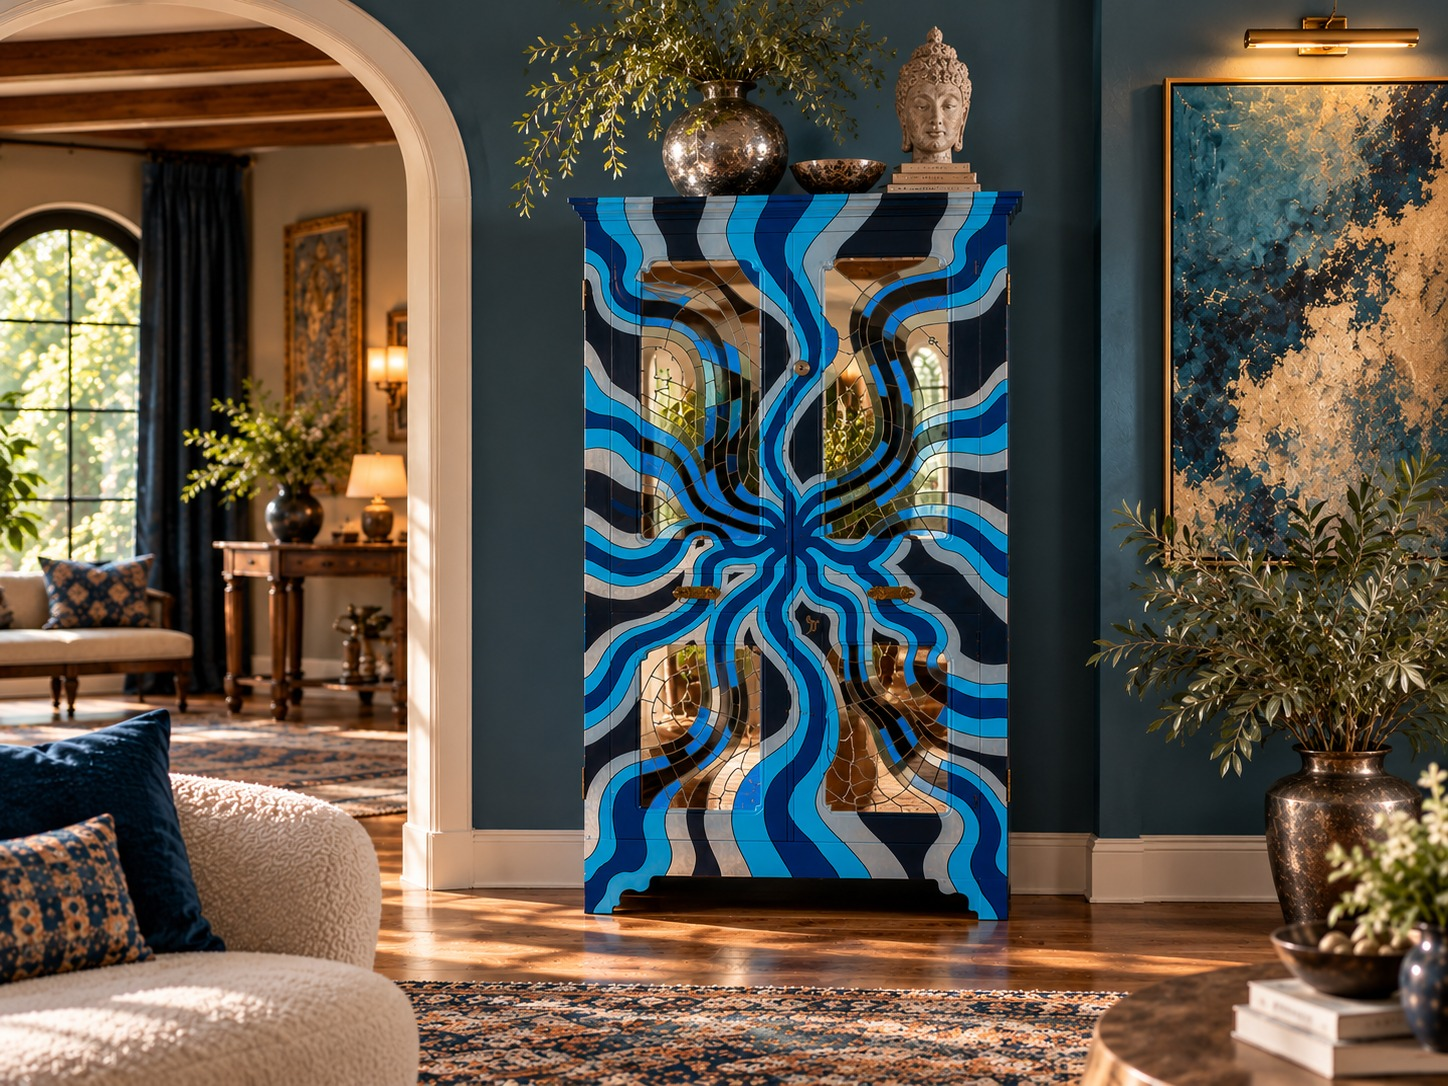
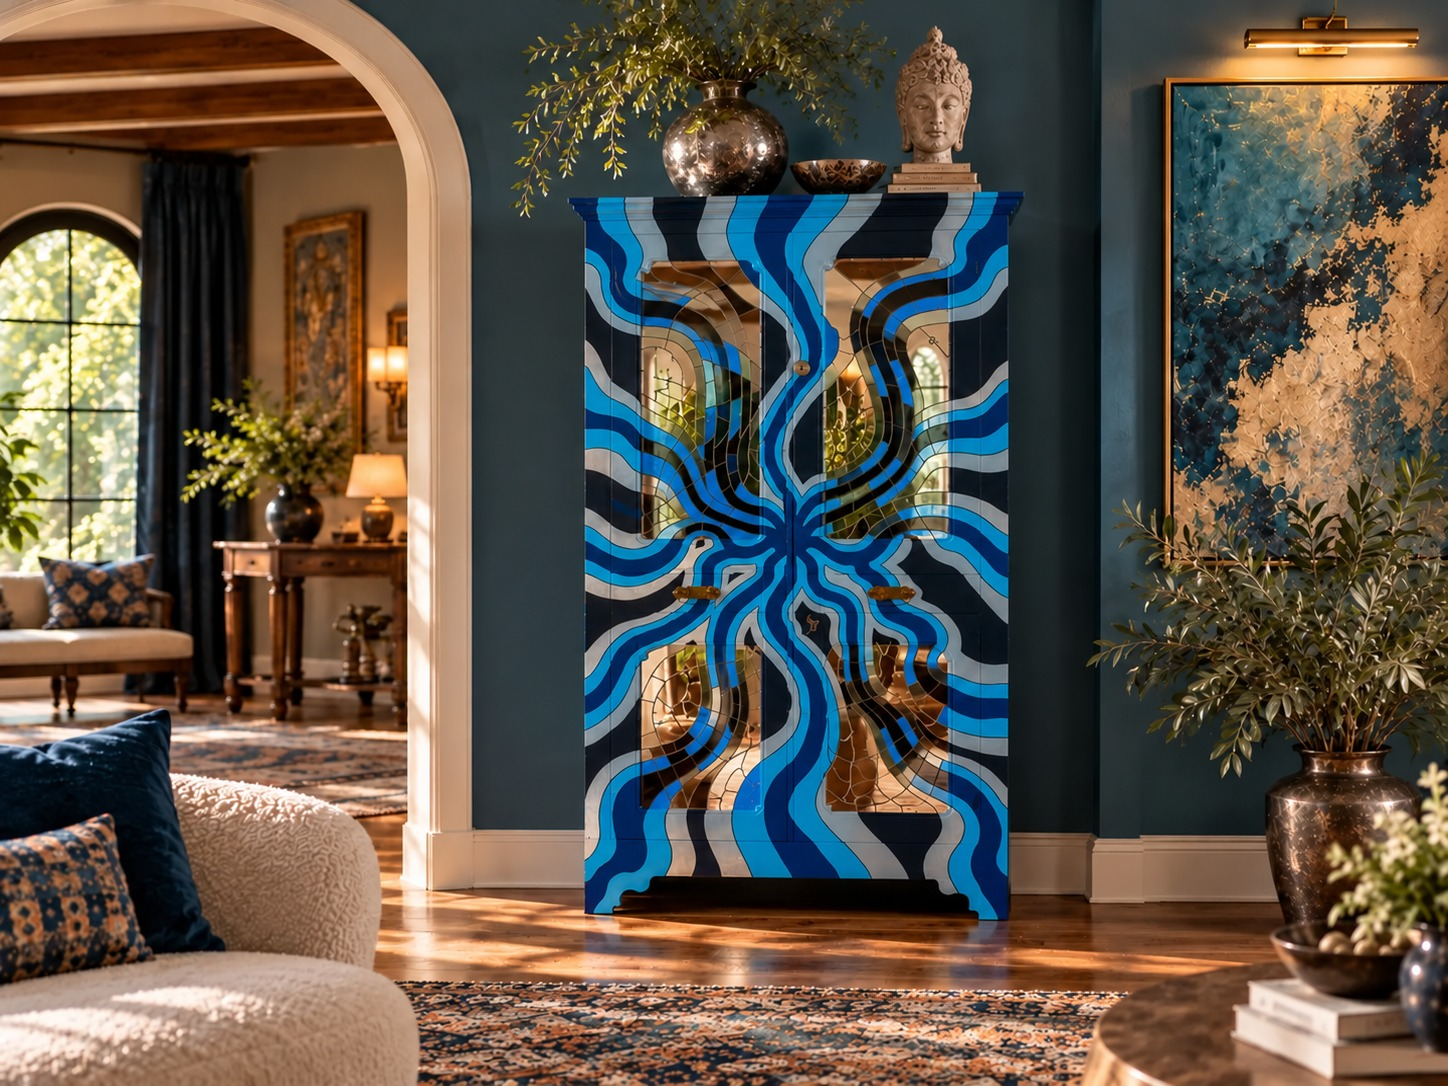
Expand portfolio with construction, interiors, and custom furniture work

diff --git a/content/portfolio.ts b/content/portfolio.ts
@@ -82,6 +82,178 @@ export const portfolio: PortfolioProject[] = [
     images: [{ src: "/images/livingroom3.jpg", alt: "Transformed living room with warm brown walls, white trim and fireplace, timber floors, and neutral seating", width: 1448, height: 1086 }],
     tags: ["Color composition", "Interior painting", "Photoshop visualization", "Architectural character"],
   },
+  {
+    id: "reclaimed-cedar-shed",
+    order: 60,
+    title: "A second life for well-found materials.",
+    category: "Standalone shed / Reclaimed construction",
+    description: [
+      "Jim’s first complete standalone shed brought a resourceful approach to 144 square feet of post-and-beam construction. Cedar cladding gives the exterior a warm, cohesive finish, while reclaimed materials throughout tell a story of looking closely at what others might overlook.",
+      "The 5-by-5 beams came from a farm outside Portland for very little cost. The sliding door and windows were rescued from a local apartment renovation, where they were destined for disposal. Finding a place for those elements became part of the design itself: a small building shaped by ingenuity, material character, and the pleasure of making something useful from what already exists.",
+    ],
+    images: [{ src: "/images/shed3.jpg", alt: "Cedar-clad standalone shed with exposed roof beams, large windows, and a sliding glass door opening onto a timber deck", width: 1448, height: 1086 }],
+    tags: ["Post-and-beam construction", "Reclaimed materials", "Cedar cladding", "Small-scale architecture"],
+  },
+  {
+    id: "basement-bathroom",
+    order: 70,
+    title: "An antique finds a new daily purpose.",
+    category: "Basement bathroom / Complete remodel",
+    description: [
+      "An antique dresser became the starting point for a bathroom with a distinctly personal character. Jim adapted the piece to receive a drop-in sink, bringing the warmth and detail of furniture into a room more often defined by standard fixtures.",
+      "One of his early remodels, the project extended well beyond the vanity. An unusual layout accommodated a double-width custom tiled shower, built-in shelving, and a large jetted tub, with a safe discreetly integrated behind a wall. Those features sit beyond this view, but reflect the same interest in making every part of a room work harder—and feel individual.",
+    ],
+    images: [{ src: "/images/basementbathroom3.jpg", alt: "Remodeled bathroom with an antique wood dresser adapted as a sink vanity, patterned wallpaper, and recessed wood shelving", width: 1448, height: 1086 }],
+    tags: ["Bathroom renovation", "Furniture repurposed", "Custom tilework", "Integrated storage", "Concealed safes"],
+  },
+  {
+    id: "contemporary-garden-gate",
+    order: 80,
+    title: "An everyday threshold, carefully made.",
+    category: "Exterior carpentry / Custom gate",
+    description: [
+      "Dark horizontal boards framed in natural timber give this gate a clean, contemporary presence. The contrast is simple and deliberate, turning a practical boundary into a considered part of the approach to the home.",
+      "Fences, gates, and decks are a regular part of Jim’s work as a carpenter. With a gate, the details behind the appearance matter just as much: its weight, bracing, support, and hardware all need to work together. The aim is an attractive entrance built to stay aligned and move comfortably through years of everyday use.",
+    ],
+    images: [{ src: "/images/gate3.jpg", alt: "Contemporary garden gate with dark horizontal boards, natural timber framing, and black hardware between two homes", width: 1448, height: 1086 }],
+    tags: ["Exterior carpentry", "Contemporary detailing", "Custom gates", "Built for daily use"],
+  },
+  {
+    id: "illuminated-cat-armoire",
+    order: 90,
+    title: "A small story, told in glass and light.",
+    category: "Vintage armoire / Illuminated mixed media",
+    description: [
+      "Two unequal door panels suggested an unexpected composition: a standing cat on the left, reaching toward a butterfly in the upper-right panel. Jim used that asymmetry to connect the scene across the face of an old armoire, designing and making stained glass that gave the furniture an entirely new identity.",
+      "Where the illustration moved beyond the glass, he painted it directly onto the wood, allowing the image to cross the boundaries of the panels. Interior lighting brings the glasswork to life, while new glass handles and a glossy jet-black finish frame the color. The result is an eclectic piece where furniture, illustration, and light become one continuous idea.",
+    ],
+    images: [{ src: "/images/catarmoire3.jpg", alt: "Glossy black armoire with illuminated multicolored stained-glass panels, a cat-and-butterfly composition, and decorative glass handles", width: 1448, height: 1086 }],
+    tags: ["Custom stained glass", "Painted illustration", "Integrated lighting", "Furniture reimagined", "Eclectic design"],
+  },
+  {
+    id: "cellar-refresh",
+    order: 100,
+    title: "A useful space, brought back into the light.",
+    category: "Cellar refresh / Laundry & storage",
+    description: [
+      "A dingy old cellar needed a practical new chapter as a laundry and storage area. Jim added lighting, mortared the stone walls, and introduced a crisp palette: white masonry, black woodwork and trim, and battleship-gray floors. The contrast makes the room’s rugged construction feel deliberate and gives everyday tasks a brighter setting.",
+      "The work also included encapsulating existing asbestos pipe insulation. Area rugs, added afterward and not shown here, softened the experience underfoot. The goal was a cleaner, more inviting utility space, with its cellar character intact—a substantial improvement in how an overlooked part of the home could be used.",
+    ],
+    images: [{ src: "/images/basement3.jpg", alt: "Refreshed cellar laundry and storage area with white stone walls, black trim, gray floors, and exposed ceiling services", width: 1448, height: 1086 }],
+    tags: ["Utility spaces", "Stone masonry", "Purposeful color", "Existing-space renewal"],
+  },
+  {
+    id: "narrow-closet",
+    order: 110,
+    title: "Small dimensions. Surprising capacity.",
+    category: "Narrow closet / Custom storage",
+    description: [
+      "An exceptionally narrow closet posed a deceptively difficult question: could this space hold anything useful at all? Jim’s answer was to keep the shelving shallow and extend it high, using the available wall area while preserving a path through the closet.",
+      "A hanging rail at the back and a series of hooks complete the arrangement. Together, these modest interventions give folded clothing, hanging pieces, and smaller belongings distinct places to live. It is a compact example of a larger design principle: awkward space often has more to offer when its storage is made specifically for it.",
+    ],
+    images: [{ src: "/images/closet3.jpg", alt: "Very narrow closet fitted with shallow white shelving, high storage, wall hooks, and a hanging rail at the rear", width: 1448, height: 1086 }],
+    tags: ["Small-space design", "Custom shelving", "Vertical storage", "Everyday organization"],
+  },
+  {
+    id: "deck-renewal",
+    order: 120,
+    title: "A familiar framework, thoughtfully renewed.",
+    category: "Deck reconstruction / 2026",
+    description: [
+      "For this 2026 deck project, the client wanted to retain parts of an existing structure, including several painted posts. That request shaped a selective reconstruction, balancing the wish to preserve familiar elements with the scope of work needed to renew the deck around them.",
+      "Jim retained the outer shell and selected existing components, then added new joists, decking, railings, stairs, and a roof. The finished work brings a consistent, refreshed appearance to an outdoor space whose starting point was a very specific client brief and budget.",
+    ],
+    images: [{ src: "/images/deck3.jpg", alt: "Renewed timber deck with new stairs, railings, and overhead structure incorporating retained painted posts", width: 1448, height: 1086 }],
+    tags: ["Deck reconstruction", "Selective reuse", "Exterior carpentry", "Client-led priorities"],
+  },
+  {
+    id: "tall-garden-fence",
+    order: 130,
+    title: "Privacy, with a sense of continuity.",
+    category: "Nine-foot fence / Custom exterior work",
+    description: [
+      "At nine feet high, this fence called for a substantial framework as well as a considered appearance. Jim built it around buried pressure-treated 4-by-6 posts, with pressure-treated 2-by-4 framing to support the generous height.",
+      "The design follows the existing fence visible at the left, carrying its horizontal rhythm into the new work. Matching that established language helps the addition feel like part of a cohesive garden boundary, with the structure doing its work quietly behind the finished surface.",
+    ],
+    images: [{ src: "/images/fence3.jpg", alt: "Tall horizontal-board garden fence with substantial posts, matching the design of an older fence at the left", width: 1448, height: 1086 }],
+    tags: ["Privacy fencing", "Substantial framing", "Design continuity", "Exterior carpentry"],
+  },
+  {
+    id: "wood-floor-refresh",
+    order: 140,
+    title: "The character was already underfoot.",
+    category: "Wood flooring / Surface refresh",
+    description: [
+      "Decades of accumulated dirt and wear had dulled this existing wood floor. Jim used a rented floor machine for a thorough mechanical scuffing—a light surface abrasion—before applying a fresh topcoat.",
+      "This was a surface refresh rather than a full sand-back and refinish. The renewed finish brings the wood’s warmth and variation back into focus, showing how a carefully chosen level of intervention can make a meaningful difference in an aging home.",
+    ],
+    images: [{ src: "/images/floor3.jpg", alt: "Refreshed wood flooring with a renewed sheen and warm grain surrounding a brick fireplace during interior work", width: 1448, height: 1086 }],
+    tags: ["Wood floor refresh", "Surface preparation", "Fresh topcoat", "Retained character"],
+  },
+  {
+    id: "walnut-toned-library",
+    order: 150,
+    title: "A finish in conversation with the past.",
+    category: "Built-in library / Custom stain matching",
+    description: [
+      "One of Jim’s first built-in libraries began with a material challenge: echo the rich color of the home’s antique burled walnut doors without the expense of building the cases in walnut. He chose pine and approached the finish as an integral part of the design.",
+      "By blending several stains, he achieved a tone that connected the new shelving to the existing doors. The result gives the library a sense of belonging within the older interior, using an accessible material and a carefully developed finish to bridge new work and established character.",
+    ],
+    images: [{ src: "/images/library3.jpg", alt: "Dark-stained floor-to-ceiling pine library shelving filled with books, plants, and collected objects against green walls", width: 1448, height: 1086 }],
+    tags: ["Built-in library", "Custom stain matching", "Pine construction", "Historic interiors"],
+  },
+  {
+    id: "renewed-window-nook",
+    order: 160,
+    title: "A quiet corner earns its place.",
+    category: "Window nook / Interior refresh",
+    description: [
+      "A rarely used nook became an opportunity to create a small, welcoming focal point. Jim added woodwork around the windows, stripped the old wall finish, repainted the area, and installed flooring to bring the space together.",
+      "The scope was modest, but the change in atmosphere was substantial. Fresh surfaces and a more defined window surround give this tucked-away corner a sense of care and a reason to spend time there.",
+    ],
+    images: [{ src: "/images/nook3.jpg", alt: "Refreshed window nook with white painted woodwork, built-in bench seating, red tabletop, and new flooring", width: 1448, height: 1086 }],
+    tags: ["Small-space renewal", "Window detailing", "Interior painting", "Cozy corners"],
+  },
+  {
+    id: "window-wall-shelving",
+    order: 170,
+    title: "A wall made for light and living.",
+    category: "Window installation / Integrated shelving",
+    description: [
+      "A new window became the center of a full wall of shelving, conceived to feel simple, bright, and open. Jim added the framing, installed the window, and built the surrounding shelves as one connected composition.",
+      "An integrated light fixture extends its usefulness beyond daylight hours, while discreet openings at the backs of shelves provide routes for cords. The combination makes room for books, plants, and everyday objects without losing the light, organic character of the wall.",
+    ],
+    images: [{ src: "/images/shelving3.jpg", alt: "White wall-to-wall shelving surrounding a large window, with an integrated light, books, plants, and display objects", width: 1448, height: 1086 }],
+    tags: ["Architectural shelving", "Window installation", "Integrated lighting", "Cord management", "Light-filled interiors"],
+  },
+  {
+    id: "ashram-bookcases",
+    order: 180,
+    title: "Made to meet the walls as they are.",
+    category: "Ashram bookcases / Southwestern Pennsylvania",
+    description: [
+      "At a small ashram in southwestern Pennsylvania, Jim built bookcases for a setting with an unusual constraint: the blue-painted areas around the cases were existing stone. The new woodwork had to accommodate the irregular masonry in place.",
+      "Many sections required careful scribing to follow the wall’s contours. A light stain, requested by the ashram, keeps the timber visually distinct against the saturated colors and gives the cases a quiet presence within an expressive room.",
+    ],
+    images: [{ src: "/images/ashram3.jpg", alt: "Light-stained custom bookcases flanking a blue-painted stone arch in a colorful Pennsylvania ashram interior", width: 1448, height: 1086 }],
+    tags: ["Custom bookcases", "Scribed woodwork", "Existing stonework", "Light stain", "Institutional interiors"],
+  },
+  {
+    id: "expressive-interior-painting",
+    order: 190,
+    title: "Color, with the confidence to stay.",
+    category: "Interior painting / Color & metallic finishes",
+    description: [
+      "Deep green, sun-warmed yellow, and luminous blue give these interiors distinct moods. Jim’s approach to painting welcomes bold color, using the relationship between walls, white trim, wood floors, and available light to give each room a clear identity.",
+      "Metallic finishes in the green and blue rooms add another dimension, responding to light as it moves across the walls. Across the three spaces, color becomes part of the architecture: a way to frame a doorway, sharpen a window surround, and make familiar rooms feel newly expressive.",
+    ],
+    images: [
+      { src: "/images/paint3a.jpg", alt: "Bedroom painted deep green with white architectural trim, warm wood furnishings, and a decorative ceiling medallion", width: 1448, height: 1086, caption: "Deep green brings an enveloping richness to a bedroom." },
+      { src: "/images/paint3b.jpg", alt: "Sunlit sitting room with warm yellow walls, crisp white window trim, and wood floors", width: 1448, height: 1086, caption: "Warm yellow makes the most of abundant daylight and crisp white trim." },
+      { src: "/images/paint3c.jpg", alt: "Bedroom with luminous metallic blue walls, white trim, antique wood furniture, and warm lighting", width: 1448, height: 1086, caption: "Metallic blue gives the wall surface depth and a changing relationship with light." },
+    ],
+    tags: ["Interior painting", "Bold color", "Metallic finishes", "Architectural contrast", "Room transformations"],
+  },
 ];
 
 export function orderedPortfolio() {

diff --git a/app/portfolio/portfolio.module.css b/app/portfolio/portfolio.module.css
@@ -5,7 +5,8 @@
 .projectHeading > p { padding-top: .6rem; }
 .projectHeading h2 { max-width: 23ch; }
 .gallery { display: grid; grid-template-columns: 1fr 1fr; gap: 2rem; align-items: start; }
-.galleryImage + .galleryImage { grid-column: 2; margin-top: 4rem; }
+.galleryImage:nth-child(even) { grid-column: 2; margin-top: 4rem; }
+.galleryImage:last-child:nth-child(odd) { grid-column: 1 / -1; margin-top: 1rem; }
 .galleryImage img, .singleImage img { width: 100%; height: auto; }
 .singleImage { grid-column: 1 / -1; }
 .gallery figcaption { color: var(--muted); font-size: .75rem; line-height: 1.6; margin-top: .8rem; }
@@ -22,5 +23,5 @@
   .projectHeading { margin-bottom: 2rem; }
   .projectDetails { margin-top: 2rem; }
   .gallery { display: flex; flex-direction: column; gap: 2rem; }
-  .galleryImage + .galleryImage { margin-top: 0; }
+  .galleryImage:nth-child(even), .galleryImage:last-child:nth-child(odd) { margin-top: 0; }
 }
